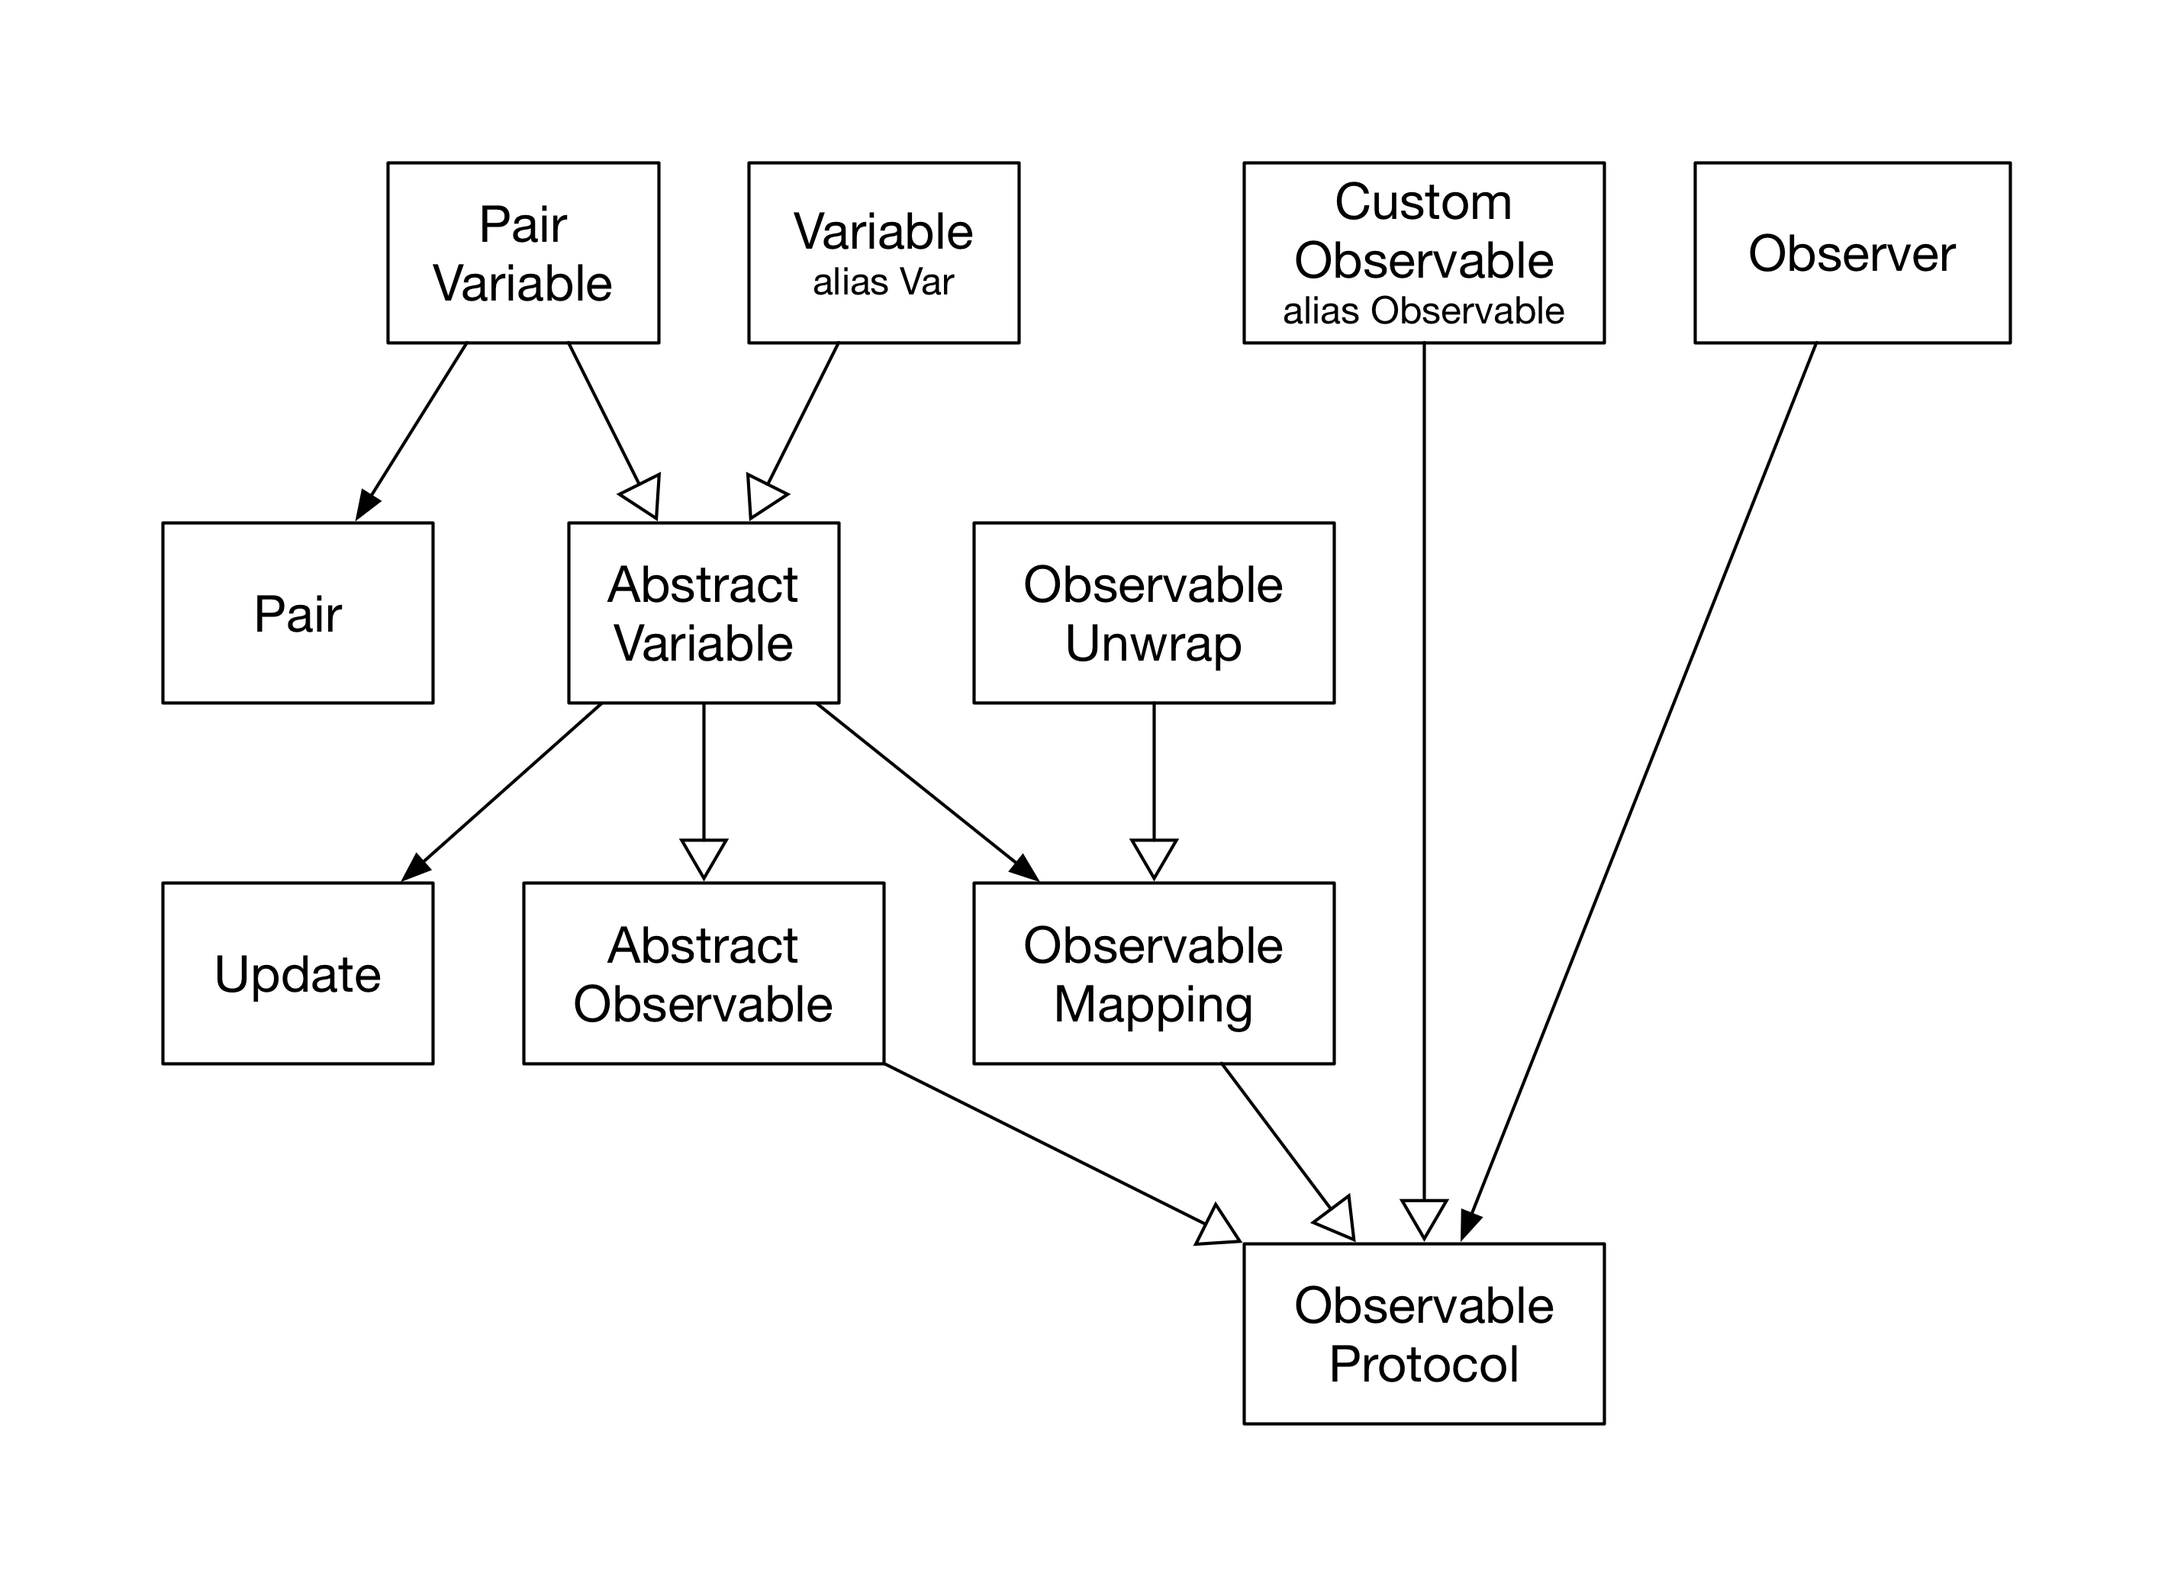
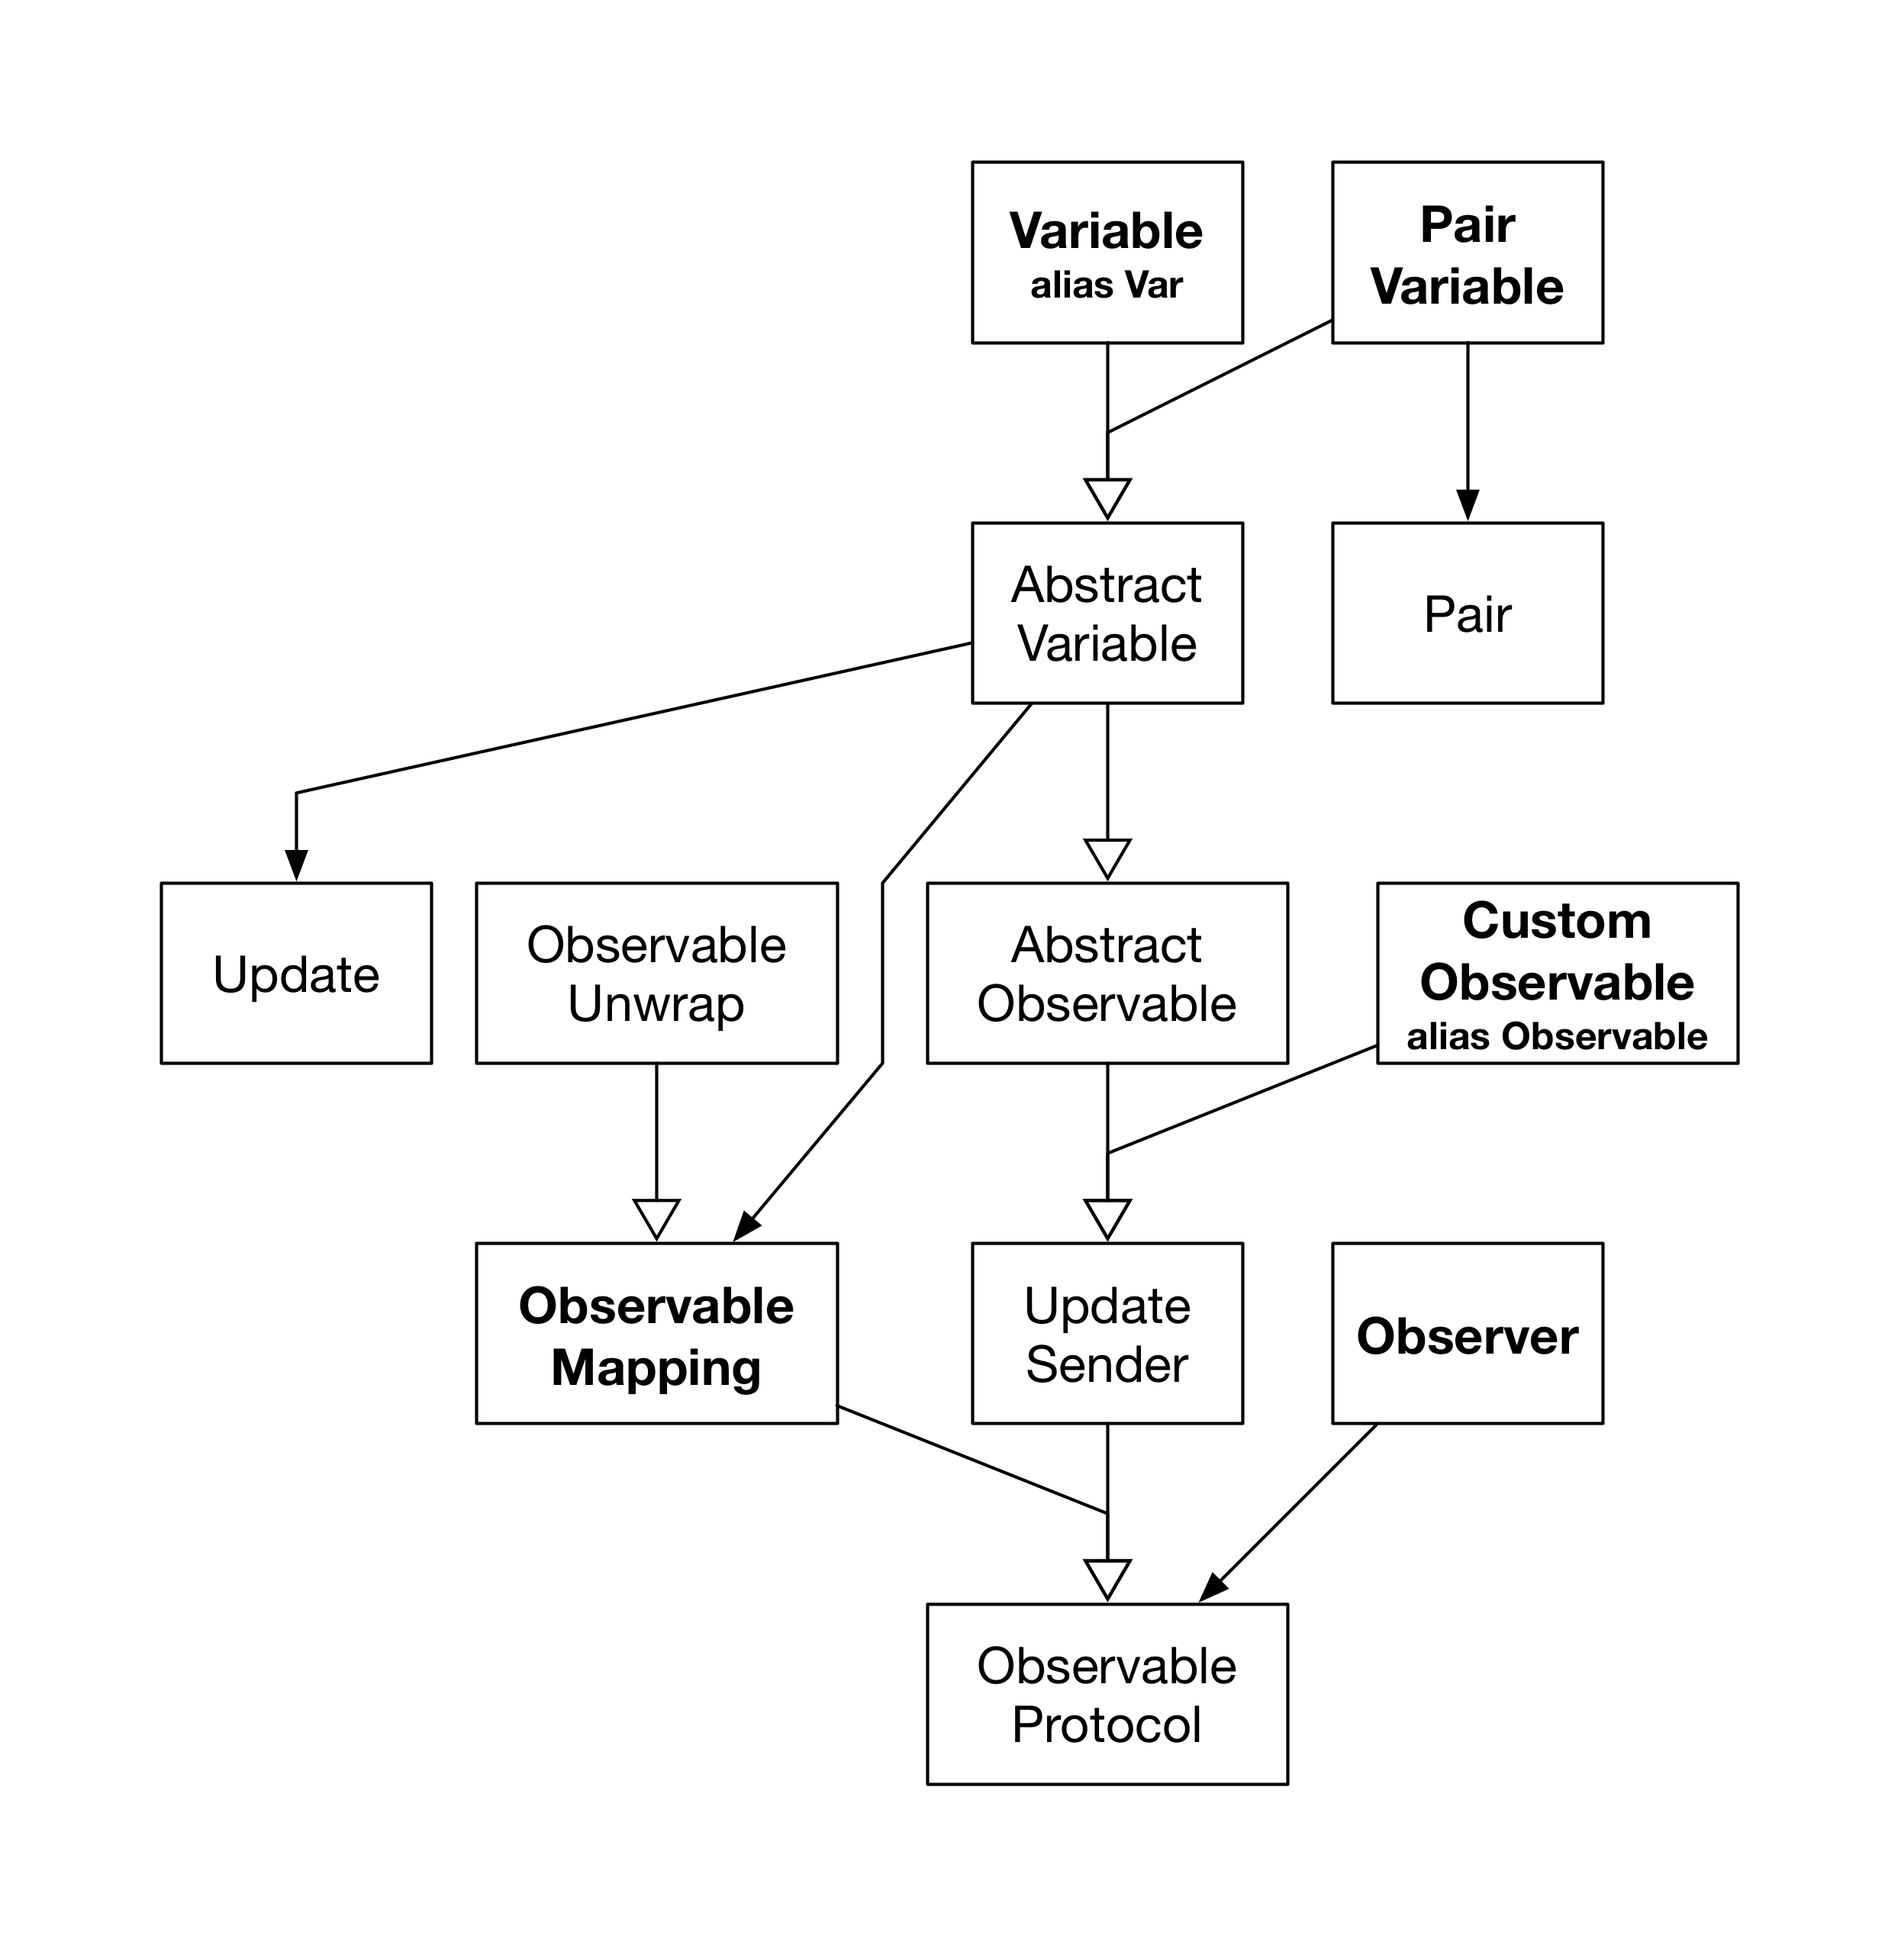
improve readybility and update type dependency diagram

diff --git a/Code/Observer.swift b/Code/Observer.swift
@@ -1,18 +1,18 @@
 public extension Observer
 {
     func observe<O: ObservableProtocol>(_ observable: O,
-                                        _ handleUpdate:
-            @escaping (O.UpdateType) -> ())
+                                        _ receive:
+            @escaping (O.UpdateType) -> Void)
     {
-        observable.add(self, handleUpdate)
+        observable.add(self, receive)
     }
     
     func observe<
         O1: ObservableProtocol,
         O2: ObservableProtocol>(_ observable1: O1,
                                 _ observable2: O2,
-                                _ handleUpdate:
-            @escaping (O1.UpdateType, O2.UpdateType) -> ())
+                                _ receive:
+            @escaping (O1.UpdateType, O2.UpdateType) -> Void)
     {
         observable1.add(self)
         {
@@ -20,7 +20,7 @@ public extension Observer
             
             guard let o2 = observable2 else { return }
             
-            handleUpdate($0, o2.update)
+            receive($0, o2.update)
         }
         
         observable2.add(self)
@@ -29,7 +29,7 @@ public extension Observer
             
             guard let o1 = observable1 else { return }
             
-            handleUpdate(o1.update, $0)
+            receive(o1.update, $0)
         }
     }
     
@@ -39,8 +39,8 @@ public extension Observer
         O3: ObservableProtocol>(_ observable1: O1,
                                 _ observable2: O2,
                                 _ observable3: O3,
-                                _ handleUpdate:
-            @escaping (O1.UpdateType, O2.UpdateType, O3.UpdateType) -> ())
+                                _ receive:
+            @escaping (O1.UpdateType, O2.UpdateType, O3.UpdateType) -> Void)
     {
         observable1.add(self)
         {
@@ -48,7 +48,7 @@ public extension Observer
             
             guard let o2 = observable2, let o3 = observable3 else { return }
             
-            handleUpdate($0, o2.update, o3.update)
+            receive($0, o2.update, o3.update)
         }
         
         observable2.add(self)
@@ -57,7 +57,7 @@ public extension Observer
             
             guard let o1 = observable1, let o3 = observable3 else { return }
             
-            handleUpdate(o1.update, $0, o3.update)
+            receive(o1.update, $0, o3.update)
         }
         
         observable3.add(self)
@@ -66,7 +66,7 @@ public extension Observer
             
             guard let o1 = observable1, let o2 = observable2 else { return }
             
-            handleUpdate(o1.update, o2.update, $0)
+            receive(o1.update, o2.update, $0)
         }
     }
     

diff --git a/Code/AbstractObservable.swift b/Code/AbstractObservable.swift
@@ -1,10 +1,10 @@
 import SwiftyToolz
 
-public class AbstractObservable<ObservedUpdate>: ObserverUpdater
+public class AbstractObservable<Update>: UpdateSender
 {
     // MARK: Life Cycle
     
-    init(_ update: ObservedUpdate)
+    init(_ update: Update)
     {
         self.update = update
     }
@@ -14,7 +14,7 @@ public class AbstractObservable<ObservedUpdate>: ObserverUpdater
     // MARK: ObserverUpdater
     
     public func add(_ observer: AnyObject,
-                    _ handleUpdate: @escaping UpdateHandler)
+                    _ receive: @escaping UpdateReceiver)
     {
         removeNilObservers()
         
@@ -23,7 +23,7 @@ public class AbstractObservable<ObservedUpdate>: ObserverUpdater
             observedObjects[hash(self)] = WeakObservedObject(observed: self)
         }
         
-        observerList.add(observer, handleUpdate)
+        observerList.add(observer, receive)
     }
     
     public func remove(_ observer: AnyObject)
@@ -45,11 +45,11 @@ public class AbstractObservable<ObservedUpdate>: ObserverUpdater
         observedObjects[hash(self)] = nil
     }
     
-    public func updateObservers(_ update: ObservedUpdate)
+    public func send(_ update: Update)
     {
         removeNilObservers()
         
-        observerList.update(update)
+        observerList.receive(update)
     }
     
     public func removeNilObservers()
@@ -64,11 +64,11 @@ public class AbstractObservable<ObservedUpdate>: ObserverUpdater
     
     // MARK: Managing Observers
     
-    private let observerList = ObserverList<ObservedUpdate>()
+    private let observerList = ObserverList<Update>()
     
-    public var update: ObservedUpdate
+    public var update: Update
     
-    public typealias UpdateType = ObservedUpdate
+    public typealias UpdateType = Update
 }
 
 // MARK: - Registering Observed Objects

diff --git a/Code/ObserverList.swift b/Code/ObserverList.swift
@@ -1,12 +1,12 @@
  import SwiftyToolz
  
- class ObserverList<UpdateType>
+ class ObserverList<Update>
  {
     func add(_ observer: AnyObject,
-             _ handleUpdate: @escaping (UpdateType) -> Void)
+             _ receive: @escaping (Update) -> Void)
     {
         let observerInfo = ObserverInfo(observer: observer,
-                                        handleUpdate: handleUpdate)
+                                        receive: receive)
         
         observers[hash(observer)] = observerInfo
     }
@@ -28,25 +28,25 @@
     
     var isEmpty: Bool { return observers.isEmpty }
     
-    func update(_ update: UpdateType)
+    func receive(_ update: Update)
     {
         for observer in observers.values
         {
-            observer.handleUpdate(update)
+            observer.receive(update)
         }
     }
     
-    private var observers = [HashValue: ObserverInfo<UpdateType>]()
+    private var observers = [HashValue: ObserverInfo<Update>]()
  }
  
- fileprivate class ObserverInfo<UpdateType>
+ fileprivate class ObserverInfo<Update>
  {
-    init(observer: AnyObject, handleUpdate: @escaping (UpdateType) -> ())
+    init(observer: AnyObject, receive: @escaping (Update) -> ())
     {
         self.observer = observer
-        self.handleUpdate = handleUpdate
+        self.receive = receive
     }
     
     weak var observer: AnyObject?
-    let handleUpdate: (UpdateType) -> ()
+    let receive: (Update) -> ()
  }

diff --git a/Code/CustomObservable.swift b/Code/CustomObservable.swift
@@ -3,7 +3,7 @@ public typealias Observable = CustomObservable
 public extension CustomObservable
 {
     func add(_ observer: AnyObject,
-             _ handleUpdate: @escaping UpdateHandler)
+             _ handleUpdate: @escaping UpdateReceiver)
     {
         ObservationService.add(observer, of: self)
         {
@@ -16,9 +16,9 @@ public extension CustomObservable
         }
     }
     
-    func updateObservers(_ update: UpdateType)
+    func send(_ update: UpdateType)
     {
-        ObservationService.updateObservers(of: self, with: update)
+        ObservationService.send(update, toObserversOf: self)
     }
     
     func remove(_ observer: AnyObject)
@@ -37,4 +37,4 @@ public extension CustomObservable
     }
 }
 
-public protocol CustomObservable: ObserverUpdater {}
+public protocol CustomObservable: UpdateSender {}

diff --git a/Tests/SwiftObserverTests.swift b/Tests/SwiftObserverTests.swift
@@ -89,7 +89,7 @@ class SwiftObserverTests: XCTestCase
             XCTAssertEqual($0, .didUpdate)
         }
         
-        model.updateObservers(.didUpdate)
+        model.send(.didUpdate)
     }
     
     func testObservingVariableTriggersUpdate()
@@ -151,7 +151,7 @@ class SwiftObserverTests: XCTestCase
             XCTAssertEqual($0, "didUpdate")
         }
         
-        model.updateObservers(.didUpdate)
+        model.send(.didUpdate)
     }
     
     func testSettingValueOnPairVariableTriggersUpdate()
@@ -279,7 +279,7 @@ class SwiftObserverTests: XCTestCase
             {
                 if oldValue != state
                 {
-                    updateObservers(Update(oldValue, state))
+                    send(Update(oldValue, state))
                 }
             }
         }

diff --git a/Code/PairVariable.swift b/Code/PairVariable.swift
@@ -36,7 +36,7 @@ public class PairVariable<Value1, Value2>: AbstractVariable<Pair<Value1, Value2>
             let oldPair = value1.old +++ me.variable2.value
             let newPair = value1.new +++ me.variable2.value
             
-            me.updateObservers(Update(oldPair, newPair))
+            me.send(Update(oldPair, newPair))
         }
         
         variable2.add(self)
@@ -48,7 +48,7 @@ public class PairVariable<Value1, Value2>: AbstractVariable<Pair<Value1, Value2>
             let oldPair = me.variable1.value +++ value2.old
             let newPair = me.variable1.value +++ value2.new
             
-            me.updateObservers(Update(oldPair, newPair))
+            me.send(Update(oldPair, newPair))
         }
     }
     

diff --git a/Code/UpdateSender.swift b/Code/UpdateSender.swift
@@ -1,16 +1,16 @@
-public protocol ObserverUpdater: ObservableProtocol
+public protocol UpdateSender: ObservableProtocol
 {
-    func updateObservers(_ update: UpdateType)
+    func send(_ update: UpdateType)
 }
 
 public protocol ObservableProtocol: ObserverRemover
 {
     func add(_ observer: AnyObject,
-             _ handleUpdate: @escaping UpdateHandler)
+             _ handleUpdate: @escaping UpdateReceiver)
     
     var update: UpdateType { get }
     
-    typealias UpdateHandler = (_ update: UpdateType) -> ()
+    typealias UpdateReceiver = (_ update: UpdateType) -> ()
     associatedtype UpdateType: Any
 }
 

diff --git a/Code/AbstractVariable.swift b/Code/AbstractVariable.swift
@@ -13,11 +13,11 @@ public class AbstractVariable<ValueType>: AbstractObservable<Update<ValueType>>
     // MARK: Update Observers When They Start Observing
     
     public override func add(_ observer: AnyObject,
-                             _ handleUpdate: @escaping (Update<ValueType>) -> ())
+                             _ receive: @escaping (Update<ValueType>) -> ())
     {
-        super.add(observer, handleUpdate)
+        super.add(observer, receive)
         
-        handleUpdate(update)
+        receive(update)
     }
     
     // MARK: Value

diff --git a/Code/ObservationService.swift b/Code/ObservationService.swift
@@ -69,11 +69,11 @@ class ObservationService
     
     // MARK: Send Events to Observers
     
-    static func updateObservers(of observed: AnyObject, with event: Any?)
+    static func send(_ event: Any?, toObserversOf observed: AnyObject)
     {
         removeAbandonedObservations()
         
-        observations[hash(observed)]?.observerList.update(event)
+        observations[hash(observed)]?.observerList.receive(event)
     }
     
     // MARK: Private State

diff --git a/Code/ObservableUnwrap.swift b/Code/ObservableUnwrap.swift
@@ -15,7 +15,7 @@ public class ObservableUnwrap<SourceObservable: ObservableProtocol, Unwrapped>: 
     }
     
     public override func add(_ observer: AnyObject,
-                             _ handleUpdate: @escaping UpdateHandler)
+                             _ handleUpdate: @escaping UpdateReceiver)
     {
         observable.add(observer)
         {

diff --git a/Code/ObservableMapping.swift b/Code/ObservableMapping.swift
@@ -21,7 +21,7 @@ public class ObservableMapping<SourceObservable: ObservableProtocol,
     }
     
     public func add(_ observer: AnyObject,
-                    _ handleUpdate: @escaping UpdateHandler)
+                    _ handleUpdate: @escaping UpdateReceiver)
     {
         observable.add(observer)
         {

diff --git a/Code/Variable.swift b/Code/Variable.swift
@@ -53,7 +53,7 @@ public class Variable<Value: Equatable & Codable>: AbstractVariable<Value?>, Cod
         {
             if oldValue != storedValue
             {
-                updateObservers(Update(oldValue, storedValue))
+                send(Update(oldValue, storedValue))
             }
         }
     }
